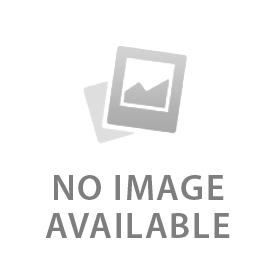
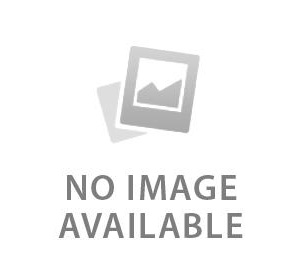
Updated size images

diff --git a/application/views/vProducts.php b/application/views/vProducts.php
@@ -64,7 +64,7 @@
                                     
                                     <!-- tablet-->
                                     <div class="sixteen wide tablet only middle aligned column">
-										<img class='ui centered small image' src='<?php echo base_url($prod->product_image)?>'>
+										<img class='ui centered medium image' src='<?php echo base_url($prod->product_image)?>'>
                                     </div>
                                     <div class="two wide tablet only column"></div>
                                     <div class="twelve wide tablet only left aligned column">
@@ -79,7 +79,7 @@
                                     <div class="two wide tablet only column"></div>
                                     <!-- mobile-->
                                     <div class="sixteen wide mobile only column">
-                                        <img class='ui centered small image' src='<?php echo base_url($prod->product_image)?>'>
+                                        <img class='ui centered medium image' src='<?php echo base_url($prod->product_image)?>'>
                                     </div>
                                     <div class="two wide mobile only column"></div>
 									<div class="twelve wide mobile only left aligned column">
